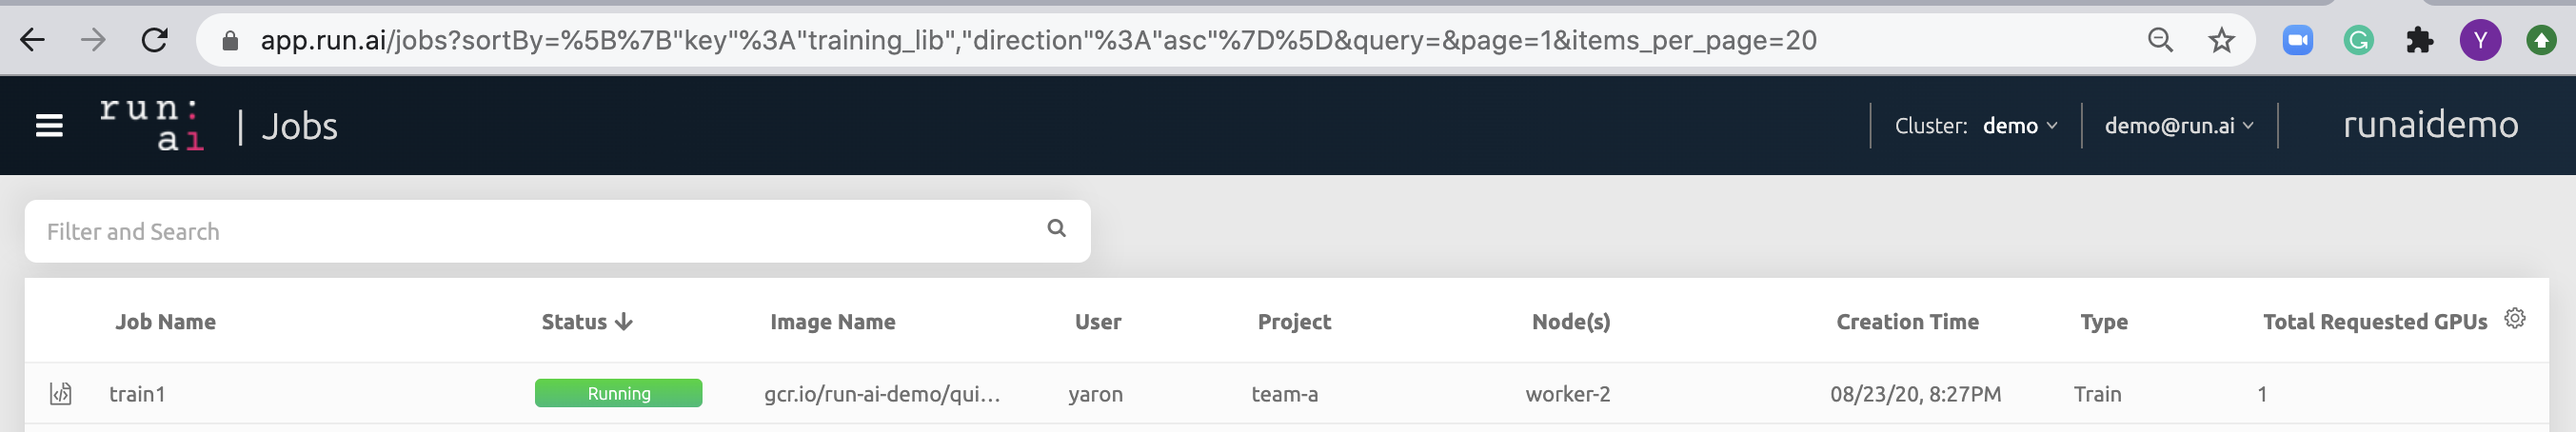
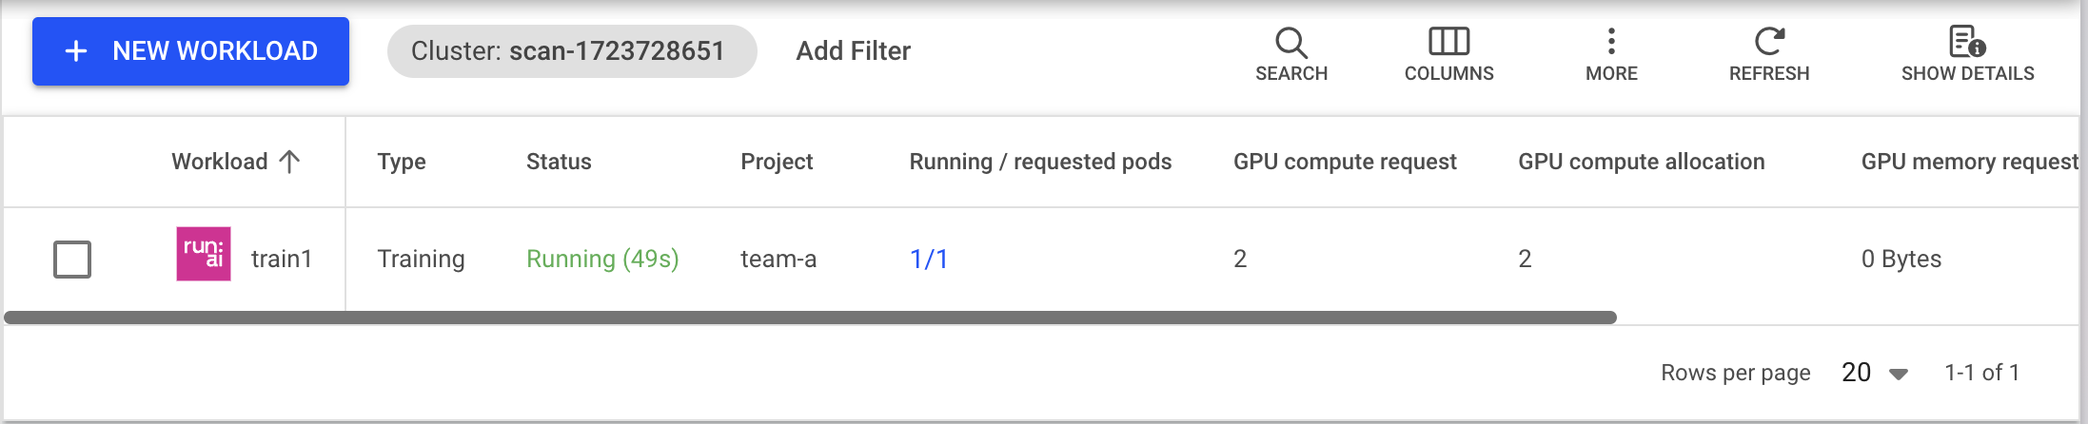
quickstart-train

diff --git a/docs/Researcher/Walkthroughs/walkthrough-train.md b/docs/Researcher/Walkthroughs/walkthrough-train.md
@@ -16,16 +16,16 @@ With this Quickstart you will learn how to:
 
 ## Prerequisites 
 
-To complete this Quickstart you must have:
+To complete this Quickstart you must need the Run:ai CLI installed on your machine. There are two CLI versions:
 
-*   Run:ai software installed on your Kubernetes cluster. See: [Installing Run:ai on a Kubernetes Cluster](../../admin/runai-setup/installation-types.md)
-*   Run:ai CLI installed on your machine. See: [Installing the Run:ai Command-Line Interface](../../admin/researcher-setup/cli-install.md)
+* The older CLI. See installation [here](../../admin/researcher-setup/cli-install.md)
+* A newer CLI, supported with clusters of version 2.18 and up. See installation [here](../../admin/researcher-setup/new-cli-install.md)
 
 ## Step by Step Walkthrough
 
 ### Setup
 
-* Login to the Projects area of the Run:ai user interface.
+*  Login to the Projects area of the Run:ai user interface.
 *  Add a Project named "team-a".
 *  Allocate 2 GPUs to the Project.
 
@@ -33,38 +33,80 @@ To complete this Quickstart you must have:
 
 *   At the command-line run:
 
-        runai config project team-a
-        runai submit train1 -i gcr.io/run-ai-demo/quickstart -g 1
+=== "Old CLI"
+    ``` bash
+    runai config project team-a   
+    runai submit train1 -i gcr.io/run-ai-demo/quickstart -g 1
+    ```
 
-This would start an unattended training Job for team-a with an allocation of a single GPU. The Job is based on a [sample](https://github.com/run-ai/docs/tree/master/quickstart/main){target=_blank} docker image ``gcr.io/run-ai-demo/quickstart``. We named the Job ``train1``
+=== "New CLI"
+    ``` bash
+    runai project set team-a
+    runai training submit train1 -i gcr.io/run-ai-demo/quickstart -g 1
+    ```
 
-*   Follow up on the Job's progress by running:
+This would start an unattended training Workload for team-a with an allocation of a single GPU. The Worlload is based on a [sample](https://github.com/run-ai/docs/tree/master/quickstart/main){target=_blank} docker image ``gcr.io/run-ai-demo/quickstart``. We named the Workload ``train1``
 
-        runai list jobs
+### List Workloads
 
-The result:
+Follow up on the Workload's progress by running:
 
-![mceclip00.png](img/mceclip00.png)
+=== "Old CLI"
+    ``` bash
+    runai list jobs
+    ```
+    The result:
+    ![mceclip00.png](img/mceclip00.png)
+
+=== "New CLI"
+    ``` bash
+    runai training list
+    ```
+
+    The result:
+
+    ```
+    Workload               Type        Status      Project     Preemptible      Running/Requested Pods     GPU Allocation
+    ────────────────────────────────────────────────────────────────────────────────────────────────────────────────────────
+    train1                 Training    Running     team-a      Yes              1/1                        0.00
+    ```
+
 
 Typical statuses you may see:
 
 *   ContainerCreating - The docker container is being downloaded from the cloud repository
-*   Pending - the Job is waiting to be scheduled
-*   Running - the Job is running
-*   Succeeded - the Job has ended
+*   Pending - the Workload is waiting to be scheduled
+*   Running - the Workload is running
+*   Succeeded - the Workload has ended
 
-A full list of Job statuses can be found [here](../scheduling/job-statuses.md) 
+A full list of Workload statuses can be found [here](../scheduling/job-statuses.md) 
 
-To get additional status on your Job run:
+### Describe Workload
 
+To get additional status on your Workload run:
+
+=== "Old CLI"
+    ``` bash
     runai describe job train1
+    ```
+
+=== "New CLI"
+    ``` bash
+    runai training describe train1
+    ```
 
 ### View Logs
 
 Run the following:
 
+=== "Old CLI"
+    ```
     runai logs train1
-
+    ```
+=== "New CLI"
+    ``` bash
+    runai training logs train1
+    ```
 You should see a log of a running deep learning session:
 
 ![mceclip1.png](img/mceclip1.png)
@@ -72,17 +114,16 @@ You should see a log of a running deep learning session:
 ### View status on the Run:ai User Interface
 
 * Open the Run:ai user interface.
-* Under "Jobs" you can view the new Workload:
+* Under "Workloads" you can view the new Training Workload:
 
 ![mceclip2.png](img/mceclip2.png)
 
-The image we used for training includes the Run:ai Training library. Among other features, this library allows the reporting of metrics from within the deep learning Job. Metrics such as progress, accuracy, loss, and epoch and step numbers.  
+Select the Workloads and press `Show Details` to see the Workload details
 
-*   Progress can be seen in the status column above. 
-*   To see other metrics, press the settings wheel on the top right ![mceclip4.png](img/mceclip4.png) and select additional deep learning metrics from the list
+![mceclip4.png](img/mceclip4.png) 
 
 
-Under Nodes you can see node utilization:
+Under Metrics you can see utilization graphs:
 
 ![mceclip5.png](img/mceclip5.png)
 
@@ -90,9 +131,17 @@ Under Nodes you can see node utilization:
 
 Run the following:
 
+=== "Old CLI"
+    ``` bash
     runai delete job train1
+    ```
 
-This would stop the training workload. You can verify this by running ``runai list jobs`` again.
+=== "New CLI"
+    ```    
+    runai training delete train1
+    ```
+  
+This would stop the training workload. You can verify this by [listing](#list-workloads) training workloads again.
 
 ## Next Steps
 
